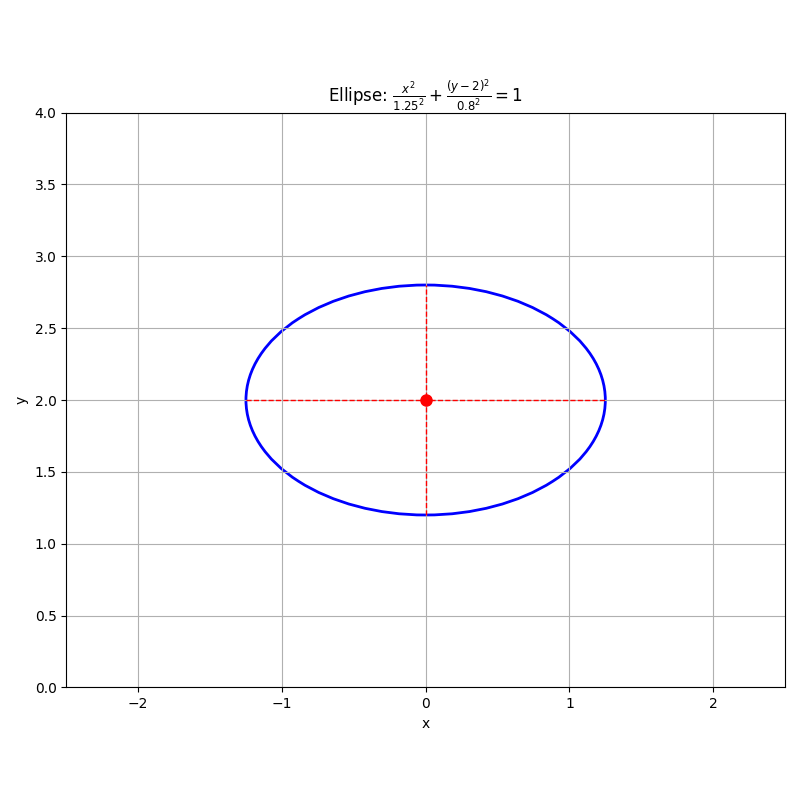
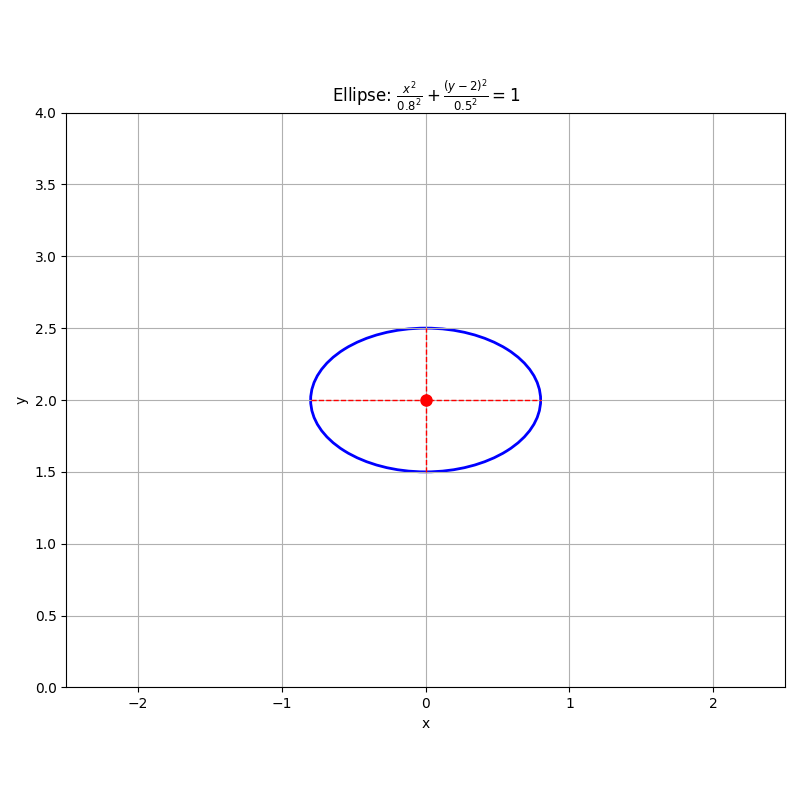
feat: update ellipse parameters and enhance underwater drone visualization

diff --git a/src/envs/underwaterdrone.py b/src/envs/underwaterdrone.py
@@ -61,7 +61,7 @@ class UnderwaterDrone:
         self.rng = np.random.RandomState(seed)
 
         # Randomize initial state using the seeded generator
-        self.x = self.rng.uniform(-0.1, 0.1)
+        self.x = self.rng.uniform(-2, 2)
         self.y = self.rng.uniform(0.3, 0.4)
         self.theta = self.rng.uniform(np.pi / 2 - 0.1, np.pi / 2 + 0.1)
         self.v_x = self.rng.uniform(-0.2, 0.2)
@@ -201,6 +201,9 @@ class UnderwaterDroneEnv(gym.Env):
             dtype=np.float32,
         )
 
+        self.semimajor_axis = 0.9
+        self.semiminor_axis = 0.6
+
         # Define action space
         # Action is (F_long, F_lat)
         self.action_space = spaces.Box(
@@ -278,20 +281,24 @@ class UnderwaterDroneEnv(gym.Env):
 
         return self._get_obs(), reward, terminated, truncated, self._get_info()
 
+    def _is_in_spot(self):
+        return (
+            self.drone.x / self.semimajor_axis**2
+            + (self.drone.y - TOP_Y / 2) ** 2 / self.semiminor_axis**2
+            <= 1.0
+        )
+
     def _calculate_reward(self) -> float:
         # Simple reward: -1 if frozen, otherwise 0.01 for each step plus height bonus
         return (
-            -((self.drone.y - TOP_Y) ** 2) / 16
-            - (self.drone.x - 0.0) ** 2 / 9
+            -((self.drone.y - TOP_Y) ** 2) / 4
+            - (self.drone.x - 0.0) ** 2 / 10
             - 0.01 * self.drone.v_x**2
             - 0.01 * self.drone.v_y**2
             - 0.01 * self.drone.omega**2
-            - 1 / (1 + (np.abs(self.drone.x) - MAX_X) ** 2)
-            - 1 / (1 + (self.drone.y) ** 2)
-            - 5
-            * np.exp(
-                (-((self.drone.x - 0.0) ** 2) - (self.drone.y - TOP_Y / 2.0) ** 2) / 0.5
-            )
+            # - 1 / (1 + (np.abs(self.drone.x) - MAX_X) ** 2)
+            # - 1 / (1 + (self.drone.y) ** 2)
+            - 20 * (1 if self._is_in_spot() else 0)
         )
 
     def _get_obs(self) -> np.ndarray:
@@ -332,7 +339,7 @@ class UnderwaterDroneEnv(gym.Env):
             self._create_heatmap()
 
     def _create_heatmap(self):
-        """Create a surface with the heatmap visualization of the Gaussian component"""
+        """Create a surface with the ellipse visualization based on _is_in_spot method"""
         if self.screen is None:
             return
 
@@ -341,64 +348,38 @@ class UnderwaterDroneEnv(gym.Env):
             (self.screen_width, self.screen_height), pygame.SRCALPHA
         )
 
-        # Number of points to sample
-        nx, ny = 100, 100
+        # Ellipse parameters
+        ellipse_center_x = 0.0
+        ellipse_center_y = TOP_Y / 2
+        ellipse_a = self.semimajor_axis  # semi-major axis
+        ellipse_b = self.semiminor_axis  # semi-minor axis
 
-        # Create coordinate grid in physics space
-        x_points = np.linspace(-MAX_X, MAX_X, nx)
-        y_points = np.linspace(0, TOP_Y, ny)
+        # Convert ellipse parameters to screen coordinates
+        ellipse_center_px = self.to_pixels_x(ellipse_center_x)
+        ellipse_center_py = self.to_pixels_y(ellipse_center_y)
+        ellipse_width = int(2 * ellipse_a * self.scale_factor)
+        ellipse_height = int(2 * ellipse_b * self.scale_factor)
 
-        # Precompute all Gaussian values for normalization
-        gaussian_vals = np.zeros((nx, ny))
-        for i, x in enumerate(x_points):
-            for j, y in enumerate(y_points):
-                gaussian_vals[i, j] = 5 * np.exp(
-                    (-((x - 0.0) ** 2) - (y - TOP_Y / 2.0) ** 2) / 0.5
-                )
+        # Calculate the rectangle that bounds the ellipse
+        ellipse_rect = pygame.Rect(
+            ellipse_center_px - ellipse_width // 2,
+            ellipse_center_py - ellipse_height // 2,
+            ellipse_width,
+            ellipse_height,
+        )
 
-        # Find max value for normalization
-        max_val = np.max(gaussian_vals)
-        if max_val > 0:
-            gaussian_vals = gaussian_vals / max_val
+        # Draw the ellipse with a semi-transparent fill
+        pygame.draw.ellipse(
+            self.heatmap_surface, (255, 0, 0, 80), ellipse_rect  # Red with alpha
+        )
 
-        # Draw the heatmap with a color gradient
-        for i, x in enumerate(x_points):
-            for j, y in enumerate(y_points):
-                # Get normalized value
-                norm_val = gaussian_vals[i, j]
-
-                # Skip very small values for performance
-                if norm_val < 0.05:
-                    continue
-
-                # Convert physics coordinates to pixel coordinates
-                px = self.to_pixels_x(x)
-                py = self.to_pixels_y(y)
-
-                # Create a color gradient from blue (cold) to red (hot)
-                # norm_val goes from 0 to 1
-                if norm_val < 0.5:
-                    # Blue to purple transition (cold)
-                    blue = 255
-                    red = int(norm_val * 2 * 255)
-                    green = 0
-                else:
-                    # Purple to red transition (hot)
-                    blue = int((1 - norm_val) * 2 * 255)
-                    red = 255
-                    green = 0
-
-                # Alpha channel based on the value
-                alpha = int(min(180, norm_val * 200))
-
-                # Draw with appropriate size based on value
-                radius = max(1, int(norm_val * 3))
-                pygame.draw.circle(
-                    self.heatmap_surface,
-                    (red, green, blue, alpha),  # RGBA with alpha
-                    (px, py),
-                    radius,
-                )
+        # Draw the ellipse outline
+        pygame.draw.ellipse(
+            self.heatmap_surface,
+            (255, 0, 0, 160),  # Red with higher alpha for the outline
+            ellipse_rect,
+            width=2,
+        )
 
     def render(self) -> Optional[np.ndarray]:
         if self.render_mode is None:

diff --git a/run/train_calfq.py b/run/train_calfq.py
@@ -219,7 +219,7 @@ def main(args: Args):
 
     # TRY NOT TO MODIFY: start the game
     obs, _ = envs.reset(seed=args.seed)
-    best_q_value = calc_q_value(obs, controller.get_action(obs.reshape(-1)))
+    best_q_value = calc_q_value(obs, target_actor(torch.tensor(obs).to(device)))
     for global_step in range(args.total_timesteps):
         # ALGO LOGIC: put action logic here
         if global_step < args.learning_starts:
@@ -236,7 +236,7 @@ def main(args: Args):
                     .clip(envs.single_action_space.low, envs.single_action_space.high)
                 )
         safe_actions = controller.get_action(obs.reshape(-1)).reshape(1, -1)
-        current_q_value = calc_q_value(obs, actions)
+        current_q_value = calc_q_value(obs, target_actor(torch.tensor(obs).to(device)))
         if (
             best_q_value + critic_change_rate < current_q_value
             or np.random.rand() < 0.05
@@ -252,7 +252,7 @@ def main(args: Args):
         # TRY NOT TO MODIFY: record rewards for plotting purposes
         if "final_info" in infos:
             best_q_value = calc_q_value(
-                next_obs, controller.get_action(next_obs.reshape(-1))
+                next_obs, target_actor(torch.tensor(next_obs).to(device))
             )
             for info in infos["final_info"]:
                 if info is not None:

diff --git a/run/train_td3.py b/run/train_td3.py
@@ -48,7 +48,7 @@ class Args:
     """the user or org name of the model repository from the Hugging Face Hub"""
 
     # Algorithm specific arguments
-    env_id: str = "Pendulum-v1"
+    env_id: str = "Hopper-v4"
     """the id of the environment"""
     total_timesteps: int = 1000000
     """total timesteps of the experiments"""

diff --git a/main.py b/main.py
@@ -43,5 +43,5 @@ def plot_ellipse(a=3, b=2):
 
 if __name__ == "__main__":
     # Default values for a and b
-    a, b = 1.25, 0.8
+    a, b = 0.9, 0.6
     plot_ellipse(a, b)
